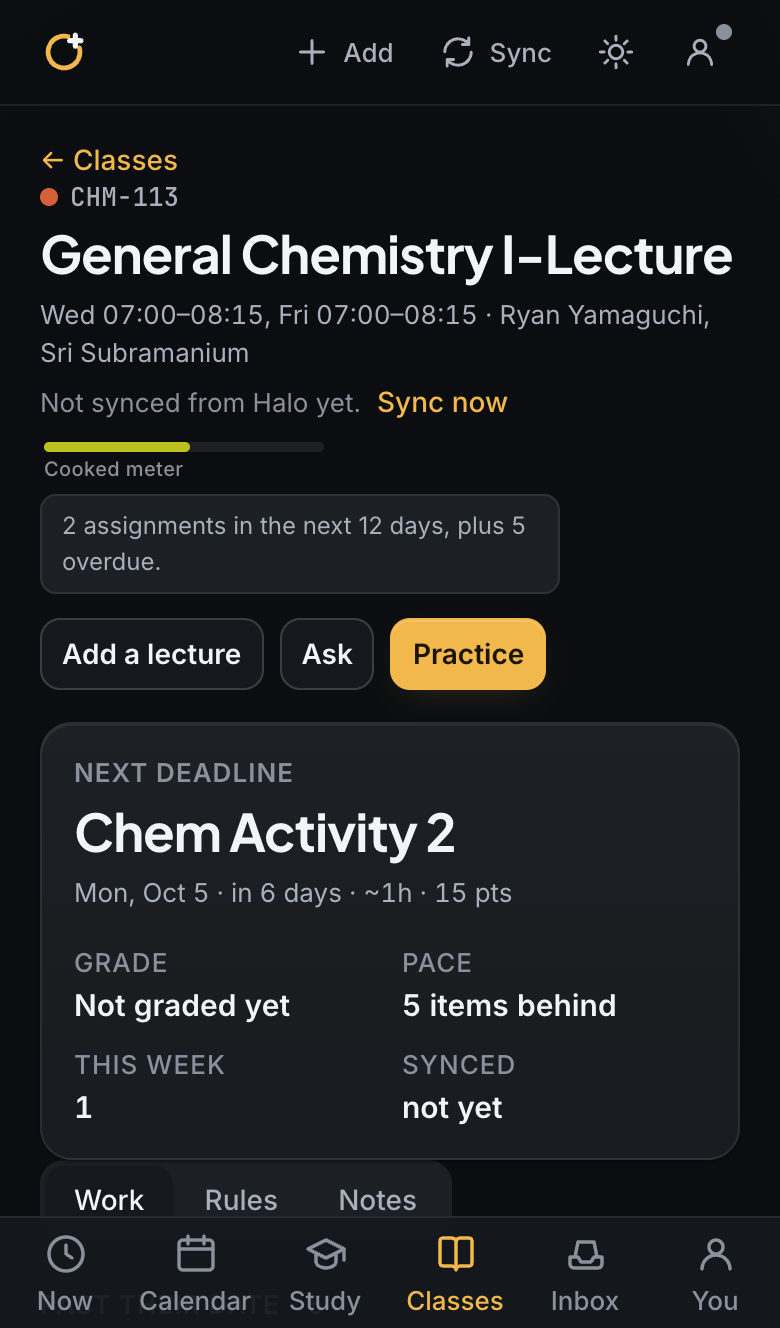
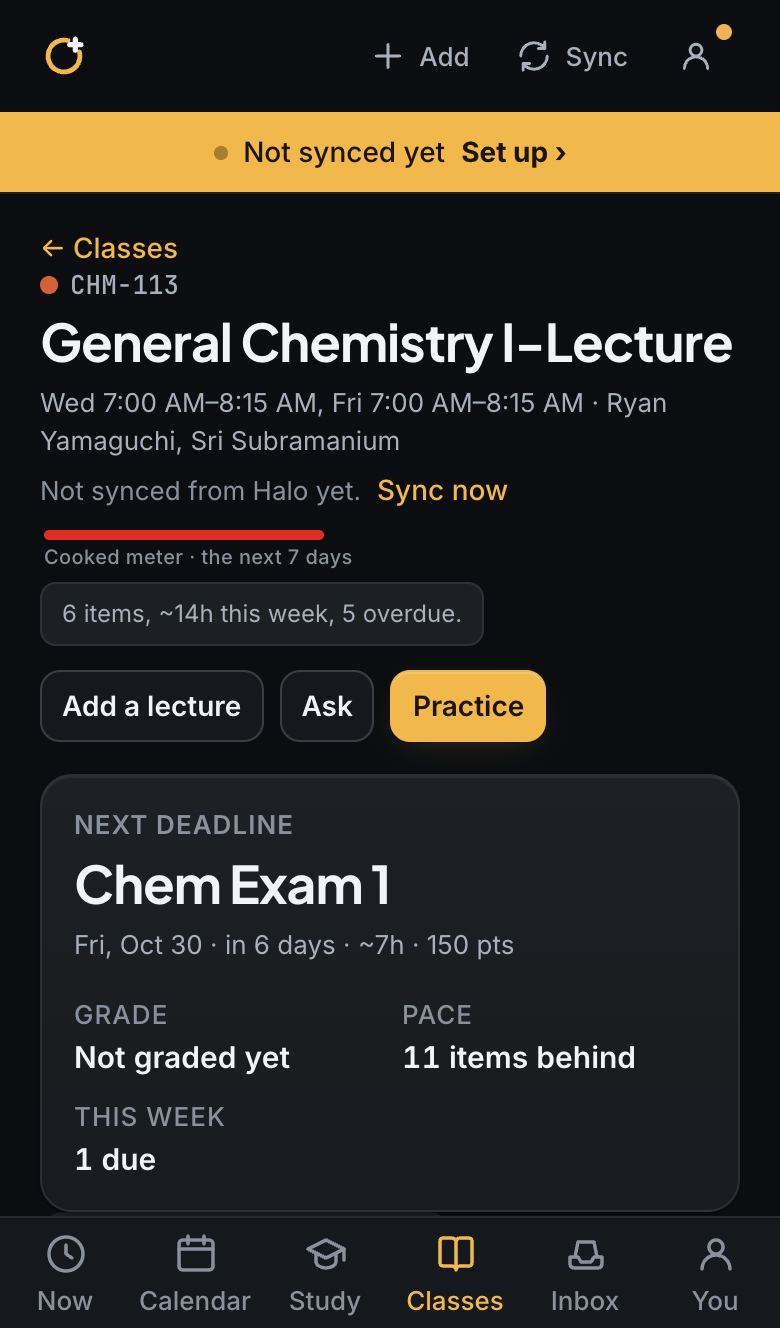
Loop 266: CHM-113 read "On pace" beside a red Cooked meter: participation still filled it (and was its "1 due in the next 48 hours"), now never counted with the shared isParticipation rule; the real red is Exam 1 (~7h of study, Fri), and the meter now says so under the bar ("Cooked meter · Exam 1, F

diff --git a/src/domain/cook.ts b/src/domain/cook.ts
@@ -1,6 +1,6 @@
-import { dateOf, diffDays } from './dates';
+import { addDays, dateOf, diffDays, fmtDate } from './dates';
 import { isQuietPast } from './submission';
-import { isNoise } from './requirements';
+import { isParticipation } from './participation';
 import { isWorkDone } from '../joy/joy';
 import type { DateStr, Item } from './types';
 
@@ -8,13 +8,17 @@ import type { DateStr, Item } from './types';
  * The Cooked meter (rebuilt 2026-10-04, George: "isn't accurate"). It means one thing: how much unfinished work this
  * class needs from you in the next 7 days, in hours.
  *
- * - Counts only work that is still owed: not submitted or graded on Halo, not checked off here (joy.isWorkDone, the
- *   same rule as the class progress bar), and not an unexplained participation check-in.
+ * - Counts only work that is still owed: not submitted or graded on Halo, and not checked off here (joy.isWorkDone, the
+ *   same rule as the class progress bar). Participation never counts (domain/participation.ts isParticipation, the
+ *   rule that it is never overdue or urgent anywhere): a 20-minute check-in due tomorrow was the "1 due in the next 48
+ *   hours" on a red CHM-113 card that said "On pace" (Loop 266).
  * - Counts what is due today through six days from now, and anything overdue from the last two weeks (older than that
  *   is history, not this week's load).
  * - Weighs each by its time estimate (the same ~estimate the rows show, calibrated by your own timings when there are
  *   enough). Something already started counts half. Overdue counts 1.5x, and due in the next 48 hours 1.25x.
  * - Green under 3 weighted hours, yellow from 3, red from 6. The bar is full at 9. Nothing owed is green.
+ * - Names what fills it: when one item is at least half the load ("Exam 1, Fri"), the card says so under the bar, so a
+ *   red meter beside "On pace" reads as a heavy week, not a contradiction (pace is keeping up; this is what is ahead).
  *
  * The old meter scored kinds of work (an essay was 5 whatever its length) over 14 days, so a class with 3 hours of
  * real work this week could read Cooked from what was due the week after.
@@ -40,6 +44,8 @@ export interface Cook {
   soon: number;
   /** One line on why: "4 items, ~5h this week, 1 overdue". */
   why: string;
+  /** The item that is at least half the load, when the meter is not green: "Exam 1, Fri". */
+  main: { item: Item; short: string; hours: number } | null;
 }
 
 const fmtHours = (h: number): string => (h < 1 ? `~${Math.max(5, Math.round((h * 60) / 5) * 5)}m` : `~${h < 10 ? Math.round(h * 10) / 10 : Math.round(h)}h`);
@@ -51,9 +57,10 @@ export function cookMeter(items: Item[], today: DateStr, tz: string, minutesOf: 
   let n = 0;
   let overdue = 0;
   let soon = 0;
+  let top: { item: Item; load: number; minutes: number; due: DateStr } | null = null;
   for (const i of items) {
-    // Past work with no Halo submission is not overdue work (domain/submission.ts).
-    if (isWorkDone(i) || isNoise(i) || isQuietPast(i, nowMs)) continue;
+    // Past work with no Halo submission is not overdue work (domain/submission.ts); participation is never load.
+    if (isWorkDone(i) || isParticipation(i) || isQuietPast(i, nowMs)) continue;
     const days = diffDays(today, dateOf(i.dueAt, tz));
     if (days >= WINDOW_DAYS || days < -OVERDUE_LOOKBACK) continue;
     const m = Math.max(0, minutesOf(i) || 0) * (i.status === 'in_progress' ? 0.5 : 1);
@@ -63,15 +70,29 @@ export function cookMeter(items: Item[], today: DateStr, tz: string, minutesOf: 
     n += 1;
     minutes += m;
     load += (m / 60) * bump;
+    if (!top || (m / 60) * bump > top.load) top = { item: i, load: (m / 60) * bump, minutes: m, due: dateOf(i.dueAt, tz) };
   }
   const hours = minutes / 60;
   load = Math.round(load * 100) / 100;
   const level: CookLevel = load >= RED_AT ? 'red' : load >= YELLOW_AT ? 'yellow' : 'green';
   // Nothing owed this week still shows: a short green bar, not an empty grey track that reads as broken.
   const fill = Math.max(0.06, Math.min(1, load / FULL_AT));
+  const main = top && level !== 'green' && top.load * 2 >= load ? { item: top.item, short: `${shortName(top.item)}, ${dayWord(top.due, today)}`, hours: top.minutes / 60 } : null;
+  const name = main ? `${STUDY.has(main.item.type) ? 'study for ' : ''}${shortName(main.item)} (${dayWord(top!.due, today)}` : '';
   const why =
     n === 0
       ? 'Nothing due in the next 7 days.'
-      : [`${n} ${n === 1 ? 'item' : 'items'}, ${fmtHours(hours)} this week`, overdue ? `${overdue} overdue` : '', soon ? `${soon} due in the next 48 hours` : ''].filter(Boolean).join(', ') + '.';
-  return { level, fill, load, hours, items: n, overdue, soon, why };
+      : n === 1 && main
+        ? `${name[0].toUpperCase()}${name.slice(1)}): ${fmtHours(hours)} this week.`
+        : [`${n} ${n === 1 ? 'item' : 'items'}, ${fmtHours(hours)} this week`, overdue ? `${overdue} overdue` : '', soon ? `${soon} due in the next 48 hours` : ''].filter(Boolean).join(', ') +
+          (main ? `. Mostly ${name}, ${fmtHours(main.hours)}).` : '.');
+  return { level, fill, load, hours, items: n, overdue, soon, why, main };
 }
+
+/** Kinds whose hours are study before the day, not work handed in. */
+const STUDY = new Set<Item['type']>(['exam', 'quiz']);
+
+/** The item's own title when it is short ("Exam 1"); otherwise its kind, so the card's line never needs "…". */
+const shortName = (i: Item): string => (i.title.length <= 22 ? i.title : `${i.type[0].toUpperCase()}${i.type.slice(1)}`);
+
+const dayWord = (d: DateStr, today: DateStr): string => (d < today ? 'overdue' : d === today ? 'today' : d === addDays(today, 1) ? 'tomorrow' : fmtDate(d, 'long').split(',')[0]);

diff --git a/src/domain/cook.test.ts b/src/domain/cook.test.ts
@@ -44,7 +44,9 @@ describe('the Cooked meter', () => {
     const late = cookMeter([item('homework', '2026-09-15', 120)], today, TZ);
     expect(soon.load).toBeGreaterThan(later);
     expect(late.load).toBeGreaterThan(soon.load);
-    expect(late.why).toBe('1 item, ~2h this week, 1 overdue.');
+    // One item that is the whole load is named, with when: "(overdue)", "(tomorrow)".
+    expect(late.why).toMatch(/^Homework \d+ \(overdue\): ~2h this week\.$/);
+    expect(late.overdue).toBe(1);
     expect(soon.why).toBe('1 item, ~2h this week, 1 due in the next 48 hours.');
     // Overdue for more than two weeks is history, not this week's load.
     expect(cookMeter([item('homework', '2026-08-30', 120)], today, TZ).items).toBe(0);
@@ -58,7 +60,35 @@ describe('the Cooked meter', () => {
     expect(cookMeter([item('homework', '2026-09-22', 120, { status: 'in_progress' })], today, TZ).hours).toBe(1);
     expect(cookMeter([item('homework', '2026-09-22', 120)], today, TZ, () => 30).hours).toBe(0.5);
   });
-  it('leaves out an unexplained participation check-in', () => {
+  it('never counts participation, explained or not, weekly or a day post (never overdue or urgent anywhere)', () => {
     expect(cookMeter([item('participation', '2026-09-19', 20)], today, TZ).items).toBe(0);
+    // Explained (requirements say what earns it): still a check-in, never "due in the next 48 hours".
+    const weekly = item('participation', '2026-09-18', 20, { title: 'Week 7 Participation', requirements: [{ id: 'r', text: 'Post twice', scope: 'requirement' }] });
+    const dayPost = item('discussion', '2026-09-21', 25, { title: 'Week 8, Day 1 Participation', label: 'Chem Participation W8 Day 1', points: 0 });
+    expect(cookMeter([weekly, dayPost], today, TZ)).toMatchObject({ items: 0, soon: 0, level: 'green' });
+  });
+
+  // George's CHM-113 on 2026-10-24 (Loop 266): the card said "On pace", the meter was red with "1 due in the next 48
+  // hours". The 48 hours was Week 7 Participation; the red is Exam 1, ~7h of study six days out, and now it says so.
+  it('names what fills it: red from one exam reads "Exam 1, Fri", not a contradiction of "On pace"', () => {
+    const sat = '2026-10-24';
+    const exam = item('exam', '2026-10-30', 420, { title: 'Exam 1', label: 'Chem Exam 1', points: 150 });
+    const w7 = item('participation', '2026-10-25', 20, { title: 'Week 7 Participation', label: 'Chem Participation W7', requirements: [{ id: 'r', text: 'Attend', scope: 'requirement' }] });
+    const w8d1 = item('discussion', '2026-10-28', 25, { title: 'Week 8, Day 1 Participation', label: 'Chem Participation W8 Day 1', points: 0 });
+    const w7d1 = item('discussion', '2026-10-21', 25, { title: 'Week 7, Day 1 Participation', label: 'Chem Participation W7 Day 1', points: 0, halo: { status: 'LATE', submittedAt: null, checkedAt: '' } });
+    const c = cookMeter([exam, w7, w8d1, w7d1], sat, TZ, undefined, Date.parse('2026-10-24T20:00:00-07:00'));
+    expect(c).toMatchObject({ items: 1, soon: 0, overdue: 0, level: 'red' });
+    expect(c.main?.short).toBe('Exam 1, Fri');
+    expect(c.why).toBe('Study for Exam 1 (Fri): ~7h this week.');
+  });
+  it('names nothing when no one item is most of the load, or when it is green', () => {
+    const spread = [1, 2, 3, 4].map((d) => item('homework', `2026-09-${17 + d}`, 120));
+    expect(cookMeter(spread, today, TZ).main).toBeNull();
+    expect(cookMeter([item('homework', '2026-09-20', 60)], today, TZ).main).toBeNull();
+  });
+  it('says "Mostly" beside the count when one thing is most of several', () => {
+    const c = cookMeter([item('paper', '2026-09-22', 360, { title: 'Essay 2' }), item('homework', '2026-09-23', 60)], today, TZ);
+    expect(c.main?.short).toBe('Essay 2, Tue');
+    expect(c.why).toBe('2 items, ~7h this week. Mostly Essay 2 (Tue, ~6h).');
   });
 });

diff --git a/src/views/CookMeter.tsx b/src/views/CookMeter.tsx
@@ -9,8 +9,8 @@ export const cookColor = (level: CookLevel): string => COLOR[level];
 
 /**
  * The Cooked meter for one class: a thin bar, green, yellow or red by the hours of unfinished work due in the next 7
- * days, "Cooked meter" in small text under it, and the reason ("4 items, ~5h this week, 1 overdue") on hover and on a
- * tap. A button, so on a class card it sits outside the card's link.
+ * days, "Cooked meter" in small text under it, what fills it when one thing is most of it ("· Exam 1, Fri"), and the
+ * reason ("4 items, ~5h this week, 1 overdue") on hover and on a tap. A button, so on a class card it sits outside the card's link.
  */
 export function CookMeter({ course, size = 'card' }: { course: Course; size?: 'card' | 'page' }) {
   const { data, today, calibrate } = useStore();
@@ -25,7 +25,10 @@ export function CookMeter({ course, size = 'card' }: { course: Course; size?: 'c
         <span className="cook-track" aria-hidden>
           <span className="cook-fill" style={{ width: `${pct}%`, background: cookColor(cook.level) }} />
         </span>
-        <span className="cook-label">Cooked meter{size === 'page' ? ' · the next 7 days' : ''}</span>
+        <span className="cook-label">
+          Cooked meter{size === 'page' ? ' · the next 7 days' : ''}
+          {cook.main && <span className="cook-main"> · {cook.main.short}</span>}
+        </span>
       </button>
       {open && (
         <p className="cook-why" role="status">

diff --git a/src/styles/screens.css b/src/styles/screens.css
@@ -4346,3 +4346,8 @@ button.sheet-line-text:focus-visible {
   align-items: center;
   gap: 6px;
 }
+/* What fills the meter ("· Exam 1, Fri", Loop 266): so a red bar beside "On pace" says why. Never cut off. */
+.cook-main {
+  color: var(--ink-2);
+  white-space: nowrap;
+}

diff --git a/LOOP_LOG.md b/LOOP_LOG.md
@@ -293,3 +293,4 @@ One line per change, newest last. Proposals that need George's approval are mark
 - Loop 263 (2026-10-24): a cleanup and show-off pass (nothing submitted; no real student data; throwaway accounts and the demo student only). (1) Extension 0.10.4: the pill is back on Halo's Student Home, shown while "This week" is folded and gone while it is open (never the same things twice), back the moment it folds; still no peek on Student Home. e2e-halo-week and e2e-halo-presence check it in Chrome and Edge, light and dark, with the real Better Halo and without. (3) The Now and Study screenshots redone with Maya Torres (scripts/screens-maya.mjs: a throwaway Max account with the demo student loaded, her presenter chip hidden): docs/screens/now-exam/maya-exam-6-days-desktop.png, -phone.png, maya-study-plan-desktop.png. Found on her Now: "150 pts due in 6 days, not started." in Heads up was her Midterm Exam; the not-started line never names a quiz or an exam now (studying lives in the Study tab; unit test). (4) Web Store screenshots, five, 1280×800, Maya Torres, the Halo page copies with 0.10.4 (scripts/webstore-shots.mjs): 1-this-week-on-halo (Student Home, "This week" open), 2-today-and-tomorrow (a class page, the pill "✓ Today's done · 5 due tomorrow" with its list), 3-on-the-assignment (the one-line note on Lab 4), 4-gpa (the semester GPA in Halo+), 5-announcements-caught (kept from 2026-10-12, recaptioned to match); one short caption each; the older shots moved to webstore-upload/old-screenshots/. The stand-in Halo gained a class page. (5) Promo tile 440×280 redone in the landing page's words: "Every GCU due date." / "Even the ones hidden in announcements.", gold Halo+ mark, no price or "free" (webstore-upload/tile.html, scripts/webstore-tile.mjs). (6) docs/webstore/LISTING.md: a 0.10.4 section with the upload list; the description gains one line for "This week" on Halo's home page and one for the GPA, and loses "7 days free, no card"; "Not affiliated with GCU" kept. (7) The landing page's "Right inside Halo" tile now shows Halo's Student Home with "This week" open above the class cards (no new text; its one line reads "This week, on Halo's own home page."); the old pill animation and its styles are gone; no sideways scroll at 360 px, light and dark.
 - Loop 264 (2026-10-24): the flaky extension test ("a waiting sync lands when Halo+ opens") found and fixed at its cause, in 0.10.4 (zip rebuilt, not submitted). Caught failing with diagnostics (full runs, the original code): the extension had marked it landed and kept nothing, yet the account had no drop at all, so it had not gone through the account. The account path always leaves a drop (a taken one stays, marked taken); so the failing runs took the other path, handing the sync to the open tab. Which path ran was a race: the Halo+ page asked the extension for a kept sync the moment it loaded, but the app writes the account's sync key a moment after sign-in; asked before that, the extension had no key, handed the sync to the tab, and the key arriving seconds later found nothing left to send. Whether the tab then got it into the account was luck. Now (extension/content-dash.js, src/App.tsx) the page asks only once the account is settled: at once when the key is already there, else when the key appears, or, signed out, when the app says so (a per-tab note and a message, so nothing stale is read): a signed-in tab always sends it through the account; a signed-out one still gets it handed over, as before. No retries, no longer waits. The test now forces the losing order every run (no key on the page at load, the key 3 s late) and checks the path (a drop in the account): the original code fails it every time, the fix passed it 30 runs in a row; a new signed-out scenario checks the handover still happens. Also passing: the full extension test, auto-sync, sync everywhere, help kit, unit, lint, build.
 - Loop 265 (2026-10-24): three fixes on Classes (throwaway accounts and the demo student only). (1) The GPA is a side thing now: the Semester GPA card is gone; a small "GPA 3.53" chip sits beside "Add class" in the header, the same size and style as it, and opens a sheet (the app's own modal: a bottom sheet on a phone) with the projected GPA, the per-class breakdown, credits, the what-if and "Add your GPA so far". All the GPA logic is unchanged; a what-if lives only in the open sheet (closing it drops it; the chip never shows one). (2) Participation is never overdue or urgent anywhere. Cause, from George's data (read only): CHM-113's "Chem Participation W7 Day 1" is a day's post Halo files as a DISCUSSION_QUESTION (type "discussion", 0 points, Halo status LATE); the class card's overdue rule did not exclude participation at all (it was built on 2026-10-04 to agree with Halo's LATE), and a few other places only knew the "participation" type. Fixed at the shared rule: past-its-date participation is "quiet past" like work with no Halo submission (domain/submission.ts isQuietPast), which the class card (Next, Behind, overdue), pace, the Cooked meter, the schedule (Calendar's Late), reminders, the welcome back and Now all read; the Late/Due-today colours never land on participation (domain/status.ts); "am I okay" and the Sunday wrap use the shared participation check; the participation line on Now says "1 missed" in grey instead of "1 late" in red; the class page keeps a missed day among its open work, uncoloured. The extension already knew a day post by its title. Unit test with that exact item (src/domain/participationNeverOverdue.test.ts); e2e-participation-now checks the line, Calendar, the class card and the class page. (3) "Don't forget" chips: one rule for a real extra step everywhere (src/domain/extraStep.ts: something to bring or have, said so or unmistakable gear, or an instruction that starts with the action: post, submit, upload, sign…), the same as the extension's gold dot and the assignment-page line; "Acknowledge this announcement after reading it", "Op-ed follows five-paragraph structure" and "Cite the textbook in APA format in the main post" make no chip (the last two had matched "post" and "textbook" anywhere). The chip says the step and its day ("Bring goggles · Thursday"), wraps to a second line instead of "…", and is calm grey with a gold dot unless due today or tomorrow (then red). Screens: docs/screens/classes/before/ and after/ (desktop and phone, light and dark; after/ includes the GPA sheet), docs/screens/gpa/; the Web Store's 4-gpa.png redone with the chip and its sheet. Passing: unit (1193), lint, build, e2e-gpa, e2e-urgent-dq, e2e-participation-now, Not now, since you last looked.
+- Loop 266 (2026-10-24): CHM-113's card said "On pace" while its Cooked meter was nearly full and red (George; his account read only). Cause, from his items (read only) through the real cookMeter: load 7.83 (red from 6) of three items: Exam 1 (Fri Oct 30, 150 pts, in person, ~7h of study, 7.0 of it), Week 7 Participation (due tomorrow, 20 min, x1.25 as "due in the next 48 hours") and Week 8 Day 1 Participation (25 min). "Chem Participation W7 Day 1" itself was already out (quiet past, Loop 265). So two things: participation was still in the meter, as load and as the meter's only "1 due in the next 48 hours", because the meter only left out unexplained weekly participation (requirements.isNoise) and his Week 7 one says what earns it; and the red itself is real, from the exam, but nothing on the card said so, so it read as a contradiction of "On pace" (pace is keeping up, the meter is what is ahead). Fixed: the meter leaves out all participation with the shared rule (domain/participation.ts isParticipation, the one Loop 265 made "never overdue or urgent anywhere"), weekly or a day post, explained or not; and when one item is at least half of a yellow or red week, the meter names it under the bar ("Cooked meter · Exam 1, Fri"; the class page "Cooked meter · the next 7 days · Exam 1, Fri") and its reason says it ("Study for Exam 1 (Fri): ~7h this week."; with others, "… Mostly Essay 2 (Tue, ~6h)."); a long title becomes its kind ("Lab, overdue") so the line never needs "…". His CHM-113 now: red 7.0, "Exam 1, Fri"; his other classes read as before (ESG-162 red and ENG-105 yellow from several things, no single name). Tests: cook.test.ts with his week's exact items (the W7 Day 1 post LATE, the explained W7 weekly, the W8 Day 1 post, Exam 1), participation never counted or "soon", the name only when one thing is most of a non-green week; scripts/e2e-cook-meter.mjs on the real backend with a throwaway Max account seeded with that week (its first class renamed CHM-113, its own open work cleared): BEFORE=1 on the Loop 265 build reproduced his card ("On pace", red, "3 items, ~7.8h this week, 1 due in the next 48 hours"); after, 8 of 8 (red, "Cooked meter · Exam 1, Fri" inside the card on desktop and at 390 px on one line, reason the exam alone, the class page the same, not Behind). Screens: docs/screens/cook-meter/{before,after}-card*.png. Also fixed three e2e scripts that had gone stale (each failed the same way on the Loop 265 build): e2e-cook (the "Halo+ for Chrome" sheet and a level-up over the cards; sample rows now more than two weeks late, which the meter leaves out, so it ticks down up to 12 rows), e2e-demo ("Synced from Halo 24 min ago" wording), e2e-participation-now (its class-card check matched no card, "", and passed empty; now the card of the class the days are in, and an empty card fails). Passing: unit (1196), lint, typecheck, build, e2e-cook-meter, e2e-cook, e2e-participation-now, e2e-demo.
